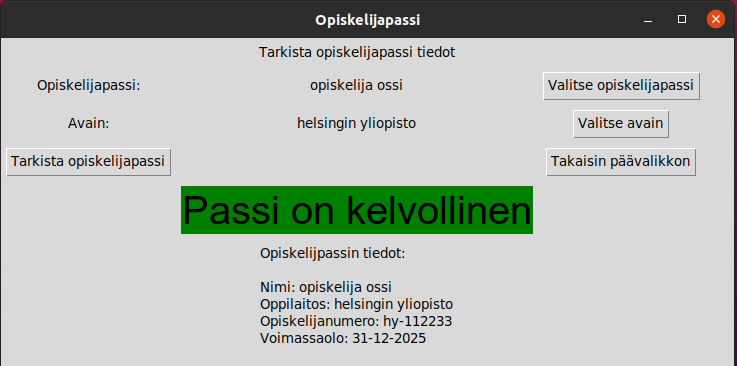
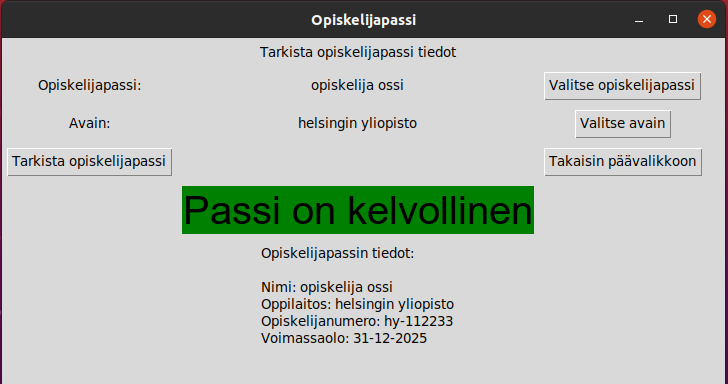
improve documentation

diff --git a/src/ui/new_validation_view.py b/src/ui/new_validation_view.py
@@ -102,7 +102,7 @@ class NewValidationView: #pylint: disable=too-many-instance-attributes
             palauttaa opiskelijapassin datan'''
         try:
             json_data = json.load(open(certificate, 'rb'))
-            parsed_json_data = f'Opiskelijpassin tiedot:\n\nNimi: {json_data["opiskelijapassi"]["nimi"]}\nOppilaitos: {json_data["opiskelijapassi"]["oppilaitos"]}\nOpiskelijanumero: {json_data["opiskelijapassi"]["opiskelijanumero"]}\nVoimassaolo: {json_data["opiskelijapassi"]["voimassaolo"]}' #pylint: disable=line-too-long
+            parsed_json_data = f'Opiskelijapassin tiedot:\n\nNimi: {json_data["opiskelijapassi"]["nimi"]}\nOppilaitos: {json_data["opiskelijapassi"]["oppilaitos"]}\nOpiskelijanumero: {json_data["opiskelijapassi"]["opiskelijanumero"]}\nVoimassaolo: {json_data["opiskelijapassi"]["voimassaolo"]}' #pylint: disable=line-too-long
             return parsed_json_data
         except:
             return 'Opiskelijapassin dataa ei löytynyt'

diff --git a/dokumentaatio/toteutusdokumentti.md b/dokumentaatio/toteutusdokumentti.md
@@ -6,13 +6,19 @@ Ohjelman on tarkoitus mahdollistaa digitaalinen allekirjoitus tiedoston datan pe
 
 Alussa ohjelma pyytää tarvittavia tietoja käyttäjältä, joista luodaan allekirjoitettava tiedosto. Tiedoston datasta luodaan tiiviste, jonka avulla voidaan varmistaa jälkikäteen että tiedoston sisältö ei ole muuttunut. Tiiviste allekirjoitetaan RSA-salausta käyttäen. Jälkikäteen tiiviste voidaan purkaa samaa salausta käyttäen ja todeta kuka on tiedoston allekirjoittanut ja että tiedoston sisältö on säilynyt muuttumattomana.
 
-Allekirjoitusta varten ohjelma luo satunnaisia alkulukuja joita voidaan käyttää RSA-salauksessa tarvittavien avaimien luomiseen. Kun alkuluvut on luotu, voidaan niistä laskea julkinen ja yksityinen avain. Yksityisellä avaimella allekirjoitetaan dokumentista luotu tiiviste ja julkisella avaimella voidaan varmistaa alkuperäinen allekirjoittaja. 
+Allekirjoitusta varten ohjelma luo satunnaisia alkulukuja joita voidaan käyttää RSA-salauksessa tarvittavien avaimien luomiseen. Kun alkuluvut on luotu, voidaan niistä laskea julkinen ja yksityinen avain. Yksityisellä avaimella allekirjoitetaan dokumentista luotu tiiviste ja julkisella avaimella voidaan todeta alkuperäinen allekirjoittaja. 
+
+Toteutuskaavio:
+
+![diagram](./images/diagram.png)
 
 ## Aika- ja tilavaativuudet
 
 Alkulukujen löytämiseen käytetään Miller-Rabin algoritmia. Miller-Rabin algoritmin aikavaatimus on O(k log^3n) missä k on suoritettujen kierrosten määrä ja n on testattava luku. 
 
 ## Puutteet ja parannusehdotukset
+
+Käyttöliittymässä on parantamisen varaa ja tiettyjen virhetilanteiden käsittelyssä.
 
 ## Lähteet
 

diff --git a/dokumentaatio/testausdokumentti.md b/dokumentaatio/testausdokumentti.md
@@ -1,6 +1,6 @@
 ## Testausdokumentti
 
-Ohjelmaa testataan automaattisilla yksikkötesteillä Pythonin Pytestin avulla. Testit löytyvät projektin juurihakemiston src/tests kansiosta. Yksittäisten metodien,allekirjoituksen ja alkulukujen testaamisen lisäksi, testisyötteenä on 10 000 alkulukua ja 8770 yhdistettyä lukua.
+Ohjelmaa testataan automaattisilla yksikkötesteillä Pythonin Pytestin avulla. Testit löytyvät projektin juurihakemiston src/tests kansiosta. Yksittäisten metodien, allekirjoituksen ja alkulukujen testaamisen lisäksi, testisyötteenä on 10 000 alkulukua ja 8770 yhdistettyä lukua.
 
 Testit voidaan suorittaa ja toistaa ajamalla komento: 
 

diff --git a/README.md b/README.md
@@ -5,6 +5,8 @@
 
 ![main_menu](./dokumentaatio/images/main_menu.png)
 
+![diagram](./dokumentaatio//images/diagram.png)
+
 ## Käyttöohje
 
 - Ohjelma vaatii toimiakseen vähintään Python 3.8 version sekä Poetry-komentorivityökalun. Voit asentaa Poetryn osoitteesta https://python-poetry.org/ .
